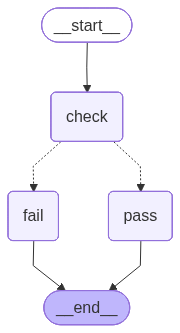
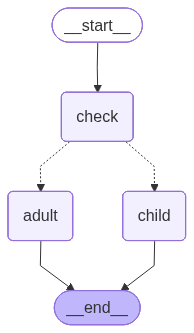
commit

diff --git a/09.RAG-랭체인-랭그래프/07.랭그래프/02.조건문과 반복문/01-조건문_이해.py b/09.RAG-랭체인-랭그래프/07.랭그래프/02.조건문과 반복문/01-조건문_이해.py
@@ -64,3 +64,89 @@ sys.path.append(str(Path(__file__).resolve().parent.parent))
 
 from util import show_graph
 show_graph(graph)
+
+# ============================================================
+
+class State(TypedDict):
+    age: int
+    result: str
+
+# 성인 여부 판별
+# 그래프
+
+# START
+#   ↓
+# check_age
+#   ↓
+#    ├── adult
+#    └── child
+#        ↓
+#       END
+# 초기값
+# age = 20
+# 결과
+# 성인
+
+# 조건
+# 19세 이상 → adult
+# 19세 미만 → child
+
+# node
+def check_age(state):
+    print("|n 나이확인",state["age"])
+    return state
+
+def adult_node(state):
+    state["result"]="adult"
+    return state
+
+def child_node(state):
+    state["result"]="child"
+    return state
+
+# 조건함수 = 분기
+def route(state):
+
+    if state["age"] >= 19:
+        return "adult"
+    
+    return "child"
+
+# Graph 객체 생성
+builder = StateGraph(State)
+
+builder.add_node("check",check_age)
+builder.add_node("adult",adult_node)
+builder.add_node("child",child_node)
+
+builder.add_edge(START,"check")
+builder.add_conditional_edges(
+    "check",
+    route,
+    {
+        "adult":"adult",
+        "child":"child"
+    }
+)
+
+builder.add_edge("adult",END)
+builder.add_edge("child",END)
+
+graph = builder.compile()
+
+# 실행
+
+result = graph.invoke({
+    "age":20
+})
+
+print(result)
+print(result["result"])
+
+import sys
+from pathlib import Path
+sys.path.append(str(Path(__file__).resolve().parent.parent))
+
+
+from util import show_graph
+show_graph(graph)
